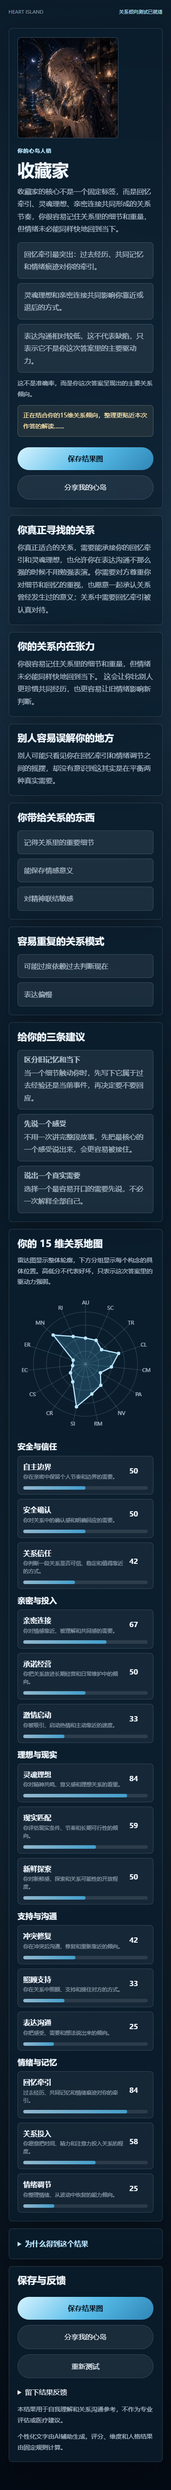
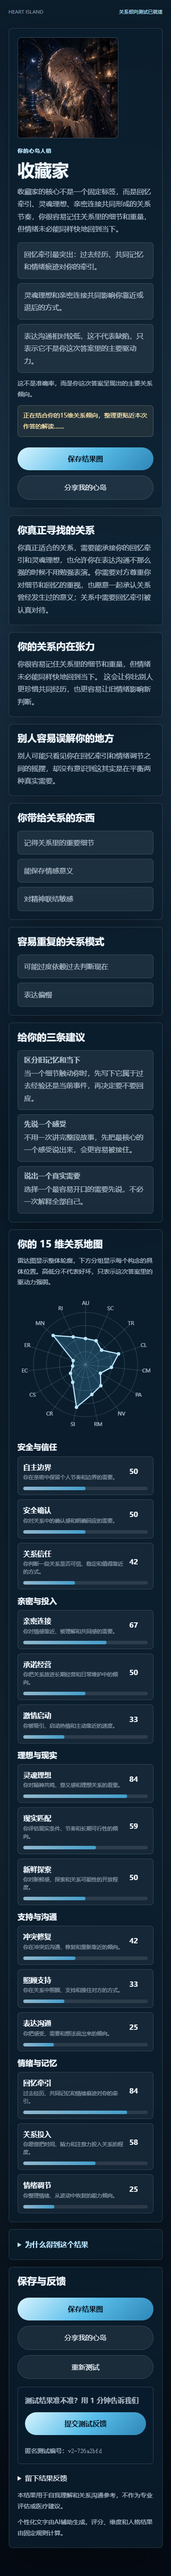
fix(v2): connect feishu beta feedback form

Changed region(s): [[0.0923, 0.0, 0.8923, 0.9984]]

diff --git a/deploy/js/v2/feedback-config.js b/deploy/js/v2/feedback-config.js
@@ -68,7 +68,10 @@ export function buildFeedbackUrl(baseUrl, { facts, report, viewport } = {}) {
   };
   for (const [key, value] of Object.entries(params)) {
     if (value !== undefined && value !== null && String(value).length > 0) {
-      url.searchParams.set(key, String(value));
+      const safeValue = String(value);
+      url.searchParams.set(key, safeValue);
+      url.searchParams.set(`prefill_${key}`, safeValue);
+      url.searchParams.set(`hide_${key}`, '1');
     }
   }
   return url.toString();

diff --git a/js/v2/feedback-config.js b/js/v2/feedback-config.js
@@ -68,7 +68,10 @@ export function buildFeedbackUrl(baseUrl, { facts, report, viewport } = {}) {
   };
   for (const [key, value] of Object.entries(params)) {
     if (value !== undefined && value !== null && String(value).length > 0) {
-      url.searchParams.set(key, String(value));
+      const safeValue = String(value);
+      url.searchParams.set(key, safeValue);
+      url.searchParams.set(`prefill_${key}`, safeValue);
+      url.searchParams.set(`hide_${key}`, '1');
     }
   }
   return url.toString();
